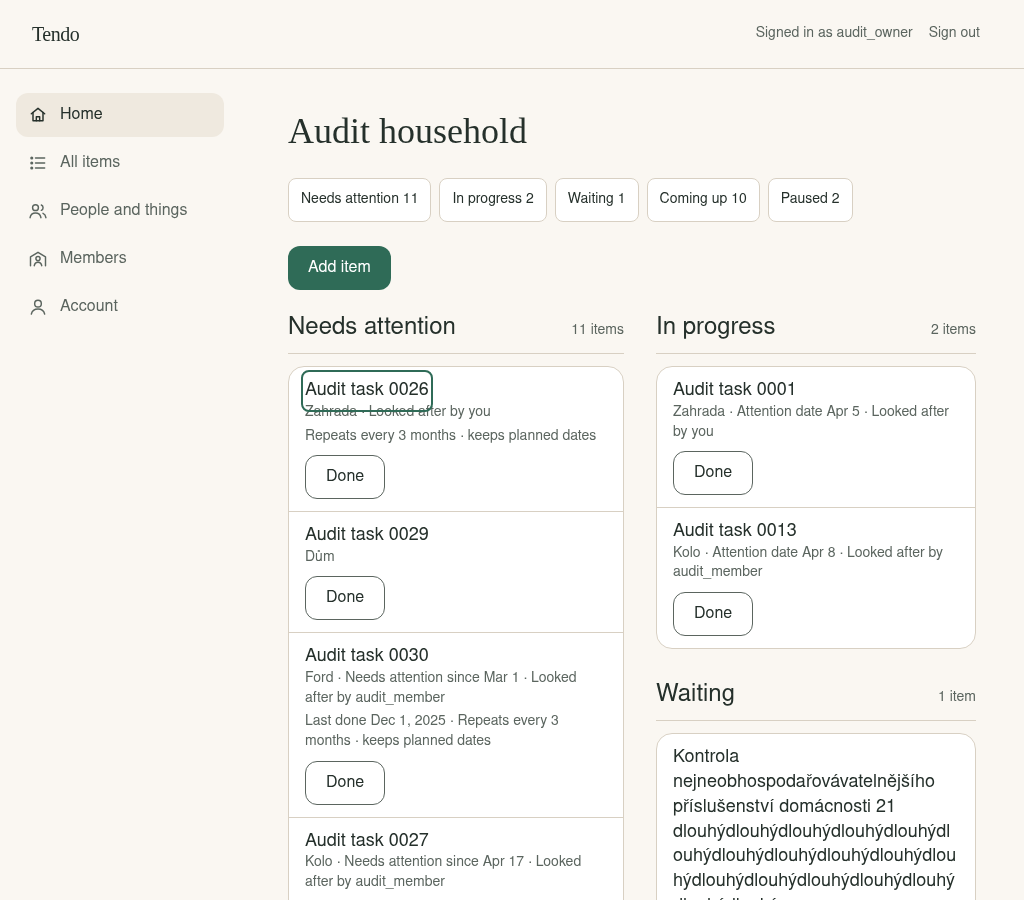
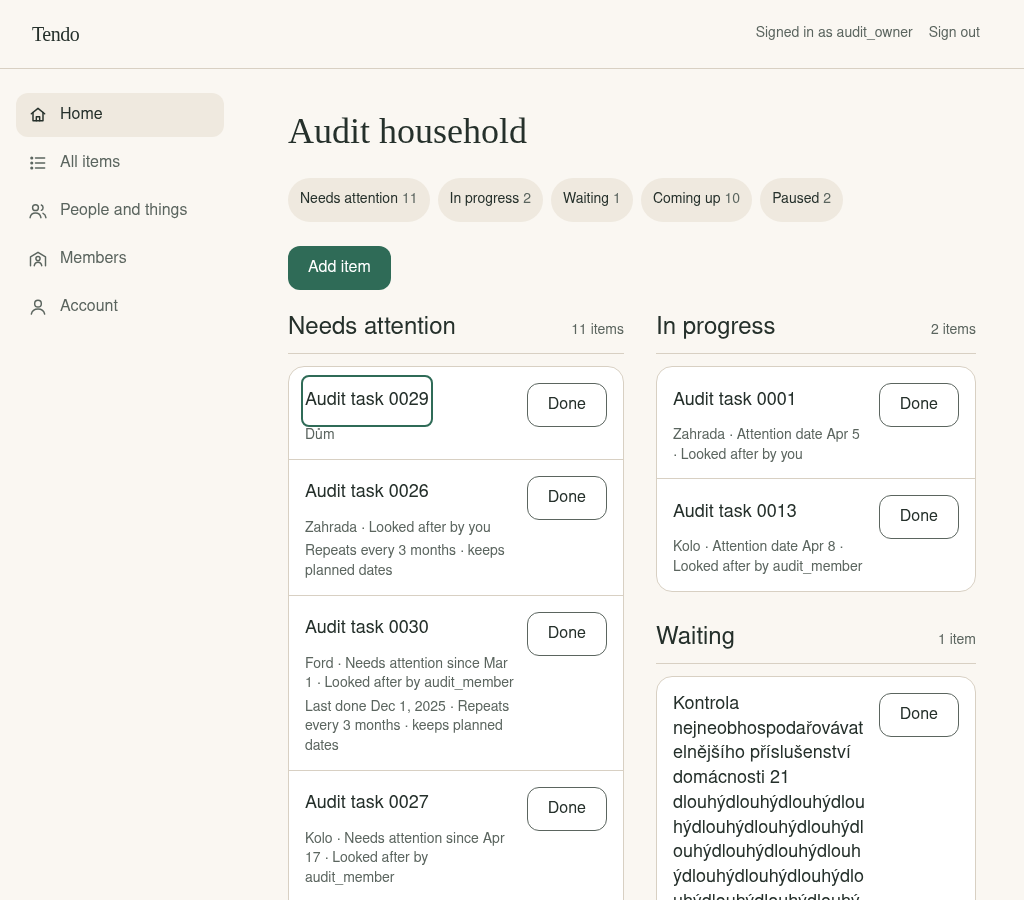
fix(home): keep row actions and focus clear

diff --git a/frontend/e2e/ux-audit.spec.ts b/frontend/e2e/ux-audit.spec.ts
@@ -3,6 +3,7 @@ import { mkdirSync, writeFileSync } from 'node:fs';
 import { join, resolve } from 'node:path';
 import { en } from '../src/i18n/en';
 import { cs } from '../src/i18n/cs';
+import { HOME_GROUP_ROW_CAP } from '../src/features/items/homeGroups';
 import { measureCapture, type CaptureMetrics } from './audit/metrics';
 import { JourneyRecorder, runFirstRunSetup, runHouseholdJourneys } from './audit/journeys';
 
@@ -605,9 +606,19 @@ Třetí odstavec obsahuje další důležité podrobnosti, které mají zůstat 
         return { dom: document.getElementsByTagName('*').length, rows: document.querySelectorAll('li[data-item-id]').length, overflow: document.documentElement.scrollWidth > document.documentElement.clientWidth, height: document.documentElement.scrollHeight, overflowOffenders: offenders };
       });
       if (stage === '1') expect(observed.rows, `1-item stage shows exactly one Home row (${locale} ${width}px)`).toBe(1);
-      if (stage === '100') expect(observed.rows, `100-item stage shows no more than the group cap (${locale} ${width}px)`).toBeLessThanOrEqual(500);
-      if (width === 320 || width === 390 || width === 768 || width === 1024 || width === 1440) {
-        await capture(targetPage, join(dir, `home-${stage}-${locale}-${width}-fold.png`), false);
+      if (stage === '100') {
+        await expect(overview, `100-item overview is visible (${locale} ${width}px)`).toBeVisible();
+        const renderedGroups = await targetPage.locator('main section[id^="group-"] ul').evaluateAll((lists) =>
+          lists.map((list) => list.querySelectorAll(':scope > li[data-item-id]').length),
+        );
+        const expectedGroupCount = await targetPage.locator('main li[data-item-id]')
+          .evaluateAll((rows) => new Set(rows.map((row) => row.closest('section')?.id)).size);
+        const renderedListGroupCount = await targetPage.locator('main section[id^="group-"]')
+          .evaluateAll((sections) => sections.filter((section) => section.querySelector('ul > li[data-item-id]')).length);
+        expect(renderedListGroupCount, 'each populated group has one rendered list').toBe(expectedGroupCount);
+        expect(renderedGroups.length, 'every populated list has rendered rows').toBe(renderedListGroupCount);
+        expect(renderedGroups.length, 'the 100-item fixture populates multiple Home groups').toBeGreaterThan(1);
+        expect(renderedGroups.every((count) => count > 0 && count <= HOME_GROUP_ROW_CAP), 'each populated Home group respects its row cap').toBe(true);
       }
       const file = `home-${stage}-${locale}-${width}`;
       await capture(targetPage, join(dir, `${file}.png`));
@@ -657,12 +668,16 @@ Třetí odstavec obsahuje další důležité podrobnosti, které mají zůstat 
       const darkPage = await darkContext.newPage();
       await darkPage.goto('/');
       await expect(darkPage.getByRole('heading', { level: 1, name: 'Audit household' })).toBeVisible();
-      await darkPage.locator('html').evaluate((html) => html.setAttribute('data-theme', 'dark'));
+      await darkPage.waitForLoadState('networkidle');
       await capture(darkPage, join(dir, 'home-1200-en-390-dark-scheme.png'));
-      metrics.stages.darkMode = { requestedColorScheme: 'dark', bodyBackground: await darkPage.evaluate(() => getComputedStyle(document.body).backgroundColor) };
-      await darkPage.locator('html').evaluate((html) => html.removeAttribute('data-theme'));
+      metrics.stages.darkMode = {
+        requestedColorScheme: 'dark',
+        renderedIdenticallyToLight: await darkPage.evaluate(() => getComputedStyle(document.body).backgroundColor === 'rgb(250, 247, 242)'),
+      };
+      expect(metrics.stages.darkMode.renderedIdenticallyToLight).toBe(true);
       for (const width of [390, 1440]) {
         await darkPage.setViewportSize({ width, height: 900 });
+        await expect(darkPage.evaluate(() => window.innerWidth)).resolves.toBe(width);
         await darkPage.locator('html').evaluate((html) => html.setAttribute('data-theme', 'dark'));
         await capture(darkPage, join(dir, `home-1200-en-${width}-forced-dark.png`));
         await darkPage.locator('html').evaluate((html) => html.removeAttribute('data-theme'));

diff --git a/frontend/src/features/items/HomeGroupSection.tsx b/frontend/src/features/items/HomeGroupSection.tsx
@@ -8,9 +8,13 @@ import { formatAttentionDate, formatDate } from './formatDate';
 import { HOME_GROUP_ROW_CAP, groups, type GroupData } from './homeGroups';
 
 const ROW_TITLE_CLASS = [
-  'inline-flex min-h-11 max-w-full items-center text-left text-row-title font-medium leading-snug text-ink',
-  '[overflow-wrap:anywhere] hover:text-accent focus-visible:rounded-sm focus-visible:outline-2 focus-visible:outline-offset-2 focus-visible:outline-accent',
+  'inline-flex min-h-11 w-fit max-w-full items-center py-1 text-left text-row-title font-medium leading-snug text-ink',
+  '[overflow-wrap:anywhere] hover:text-accent focus-visible:rounded-sm focus-visible:outline-2',
+  'focus-visible:outline-offset-2 focus-visible:outline-accent',
 ].join(' ');
+const ROW_CLASS = 'flex items-start gap-3 px-4 py-3';
+const ROW_CONTENT_CLASS = 'min-w-0 flex-1';
+const DONE_CLASS = 'mt-1 shrink-0';
 const GROUP_HEADING_CLASS = [
   'flex items-baseline justify-between border-b border-line pb-2 text-h2 font-medium text-ink',
   'focus-visible:outline-2 focus-visible:outline-offset-2 focus-visible:outline-accent',
@@ -54,8 +58,8 @@ export function ItemRow({ item, group, evaluatedOn, subjectName, locale, userId,
     item.recurrence ? repeatSummary(t, item.recurrence, locale) : null,
   ].filter(Boolean).join(' · ');
   return (
-    <li ref={rowRef} data-item-id={item.id} className='flex flex-wrap items-center gap-x-6 gap-y-2 px-4 py-3'>
-      <div className='min-w-0 flex-1 basis-64'>
+    <li ref={rowRef} data-item-id={item.id} className={ROW_CLASS}>
+      <div className={ROW_CONTENT_CLASS}>
         <NavLink
           href={`/items/${encodeURIComponent(item.id)}`}
           onNavigate={() => onOpenItem(item.id)}
@@ -64,12 +68,20 @@ export function ItemRow({ item, group, evaluatedOn, subjectName, locale, userId,
           <span aria-hidden='true'>{item.title}</span>
           <span className='sr-only'>{t('itemDetail.open', { title: item.title })}</span>
         </NavLink>
-        <p className='break-words text-meta text-muted'>
+        <p className='mt-1 break-words text-meta text-muted'>
           {scanLine}
         </p>
         {additionalDetails ? <p className='mt-1 break-words text-meta text-muted'>{additionalDetails}</p> : null}
       </div>
-      <Button type='button' variant='secondary' data-action='done' aria-label={t('items.done.label', { title: item.title })} disabled={busy} onClick={onDone}>
+      <Button
+        className={DONE_CLASS}
+        type='button'
+        variant='secondary'
+        data-action='done'
+        aria-label={t('items.done.label', { title: item.title })}
+        disabled={busy}
+        onClick={onDone}
+      >
         {t('items.done')}
       </Button>
     </li>

diff --git a/frontend/src/features/items/HomeOverview.tsx b/frontend/src/features/items/HomeOverview.tsx
@@ -6,8 +6,8 @@ import { countPluralKey } from './itemsScreenHelpers';
 import { groups, type GroupData } from './homeGroups';
 import type { CreateNotice } from './useAddItem';
 
-const overviewLinkClass = 'inline-flex min-h-11 items-center rounded-lg border border-line bg-raised px-3 text-sm font-medium text-ink '
-  + 'transition-colors hover:border-accent hover:text-accent focus-visible:outline-2 focus-visible:outline-offset-2 focus-visible:outline-accent';
+const overviewLinkClass = 'inline-flex min-h-11 items-center gap-1 rounded-full bg-sand px-3 text-sm font-medium text-ink '
+  + 'transition-colors hover:bg-sunken focus-visible:outline-2 focus-visible:outline-offset-2 focus-visible:outline-accent';
 
 /** Completion/undo outcome shown in the home notice area; Undo and retry controls depend on its fields. */
 export type Notice = {
@@ -104,8 +104,7 @@ export function HomeOverviewNav({ summary, groupData, sectionHeadingRefs }: Over
   // Overview links only target sections that actually render (summary count and loaded rows), so every link has a heading to focus.
   const overviewGroups = groups.filter((group) => summary[group.count] > 0 && groupData[group.id].items.length > 0);
   if (overviewGroups.length < 2) return null;
-  return <div className="space-y-2">
-    <nav aria-label={t('items.group.overview')} className="flex flex-wrap gap-2">
+  return <nav aria-label={t('items.group.overview')} className="flex flex-wrap gap-2">
     {overviewGroups.map((group) => <a
       key={group.id}
       href={`#group-${group.id}`}
@@ -117,7 +116,6 @@ export function HomeOverviewNav({ summary, groupData, sectionHeadingRefs }: Over
         sectionHeadingRefs.current.get(group.id)?.focus();
       }}
       className={overviewLinkClass}
-    >{t(group.key)} {summary[group.count]}</a>)}
-    </nav>
-  </div>;
+    >{t(group.key)} <span className="text-muted">{summary[group.count]}</span></a>)}
+  </nav>;
 }

diff --git a/frontend/src/features/items/ItemsScreen.test.tsx b/frontend/src/features/items/ItemsScreen.test.tsx
@@ -1833,7 +1833,10 @@ describe('Home items', () => {
     app();
     await screen.findByText('Overview needs');
     const nav = screen.getByRole('navigation', { name: 'Group overview' });
-    expect(within(nav).getByRole('link', { name: 'Needs attention 1 item' })).toBeVisible();
+    const needsLink = within(nav).getByRole('link', { name: 'Needs attention 1 item' });
+    expect(needsLink).toBeVisible();
+    expect(needsLink).toHaveClass('bg-sand');
+    expect(needsLink).not.toHaveClass('border');
     expect(within(nav).getByRole('link', { name: 'In progress 1 item' })).toBeVisible();
     expect(within(nav).getByRole('link', { name: 'Coming up 1 item' })).toBeVisible();
     expect(within(nav).queryByRole('link', { name: 'Waiting' })).not.toBeInTheDocument();

diff --git a/frontend/e2e/journey.spec.ts b/frontend/e2e/journey.spec.ts
@@ -1132,7 +1132,8 @@ test.describe('Tendo production journey', () => {
     expect(upcoming).toMatchObject({ attentionOn: '2026-01-31', lastCompletedOn: '2025-12-31', attention: 'upcoming' });
     const upcomingRow = group(en['items.group.upcoming']).getByRole('listitem').filter({ hasText: upcomingTitle });
     await expect(upcomingRow).toBeVisible();
-    await expect(upcomingRow).toContainText('Jan 31');
+    await expect(upcomingRow).toContainText(en['items.attentionOn'].replace('{date}', 'Jan 31'));
+    await expect(upcomingRow).not.toContainText('Jan 31, 2026');
 
     const ordinaryTitle = 'Ordinary repeating no history';
     await addItem({ title: ordinaryTitle, subject: 'Anička', repeat: { value: '1', unit: 'month', fluid: false } });

diff --git a/docs/design/v3-home.md b/docs/design/v3-home.md
@@ -6,7 +6,7 @@
 |---|---|---|
 | Layout | Single column below `lg`; at `lg`, Needs attention is the wider primary column and the other groups share an independent secondary column. If Needs attention has no loaded rows, all populated secondary groups use the full content width. | Keeps the first useful work prominent without shared grid rows or an empty primary column. |
 | Measure | Home follows the signed-in shell's max-width; each group and row can shrink and wrap rather than spreading title/action to opposite page edges. | Avoids the previous wide white panel and preserves readable context. |
-| Group navigation | Two or more populated groups produce outlined, touch-sized links with counts. Links focus existing group headings; fewer than two groups hides the overview. | Preserves the in-page navigation contract while improving scanning. |
+| Group navigation | Two or more populated groups produce quiet sand pill links with a muted count and 44px hit area. Links focus existing group headings; fewer than two groups hides the overview. | Preserves the in-page navigation contract without competing with Add. |
 | Add | The primary Add item action sits before groups, close to the list; empty Home has one obvious Add action inside the empty-state primitive. | One primary action and a clear next step. |
 | Date | Attention dates omit the year when it matches the server's `evaluatedOn` year; cross-year dates include it. Formatting stays locale-aware and date-only values remain UTC-stable. | Dates scan faster without a relative phrase that can read unnaturally in sentence contexts. |
 | Row | Strong, non-underlined title; one visible supporting scan line (subject, attention date, responsible person) plus a visible secondary line for last done and repeat mode when present. | Preserve subject/assignment information in both the visual and accessibility trees without hiding recurrence/history. |
@@ -28,7 +28,7 @@ At 1024px and wider, when Needs attention exists, the group layout uses independ
 
 ## Screenshot critique
 
-The after capture at 1440px uses the available content width well: the attention list and independent secondary groups are both visible, titles/actions are no longer separated by a vast panel-width gap, and metadata remains legible. At 390px the layout does not overflow and metadata wraps, but Done moves below its row text and the first rows are vertically tall; this trades density for a recognizable 44px action. At 320px the household header account controls wrap and the fixed phone navigation crowds the last visible row; this shell-level narrow-phone pressure remains visible. The task rows use wrapping rather than clipping. The 320px and Czech screenshots are included for wrapping checks; no claim of household user testing is made.
+The refreshed 1440px capture keeps independent attention and secondary columns, with Done beside the flexible text column and metadata clear of the title focus outline. At 390px, Done remains consistently right-aligned rather than wrapping below row text. In the 320px Czech view, the action stays beside the title even when longer row details wrap; the shell account controls wrap and bottom navigation crowds the fold. Captures are scripted evidence only; no household user testing is claimed.
 
 ## States and behavior
 

diff --git a/docs/design/v3-home/CAPTURES.md b/docs/design/v3-home/CAPTURES.md
@@ -7,7 +7,7 @@ Command pattern:
 ```sh
 source ~/.config/tendo-test/env
 TENDO_UX_AUDIT_DIR=/tmp/opencode/v308-before-captures bash scripts/dev-exec.sh -- bash -c 'cd /tmp/opencode/v308-before && bash scripts/e2e-smoke.sh'
-TENDO_UX_AUDIT_DIR=/tmp/opencode/v308-after-final-captures bash scripts/dev-exec.sh -- bash scripts/e2e-smoke.sh
+TENDO_UX_AUDIT_DIR=/tmp/opencode/v308-review3-captures bash scripts/dev-exec.sh -- bash scripts/e2e-smoke.sh
 ```
 
 | Before | After | Purpose |
